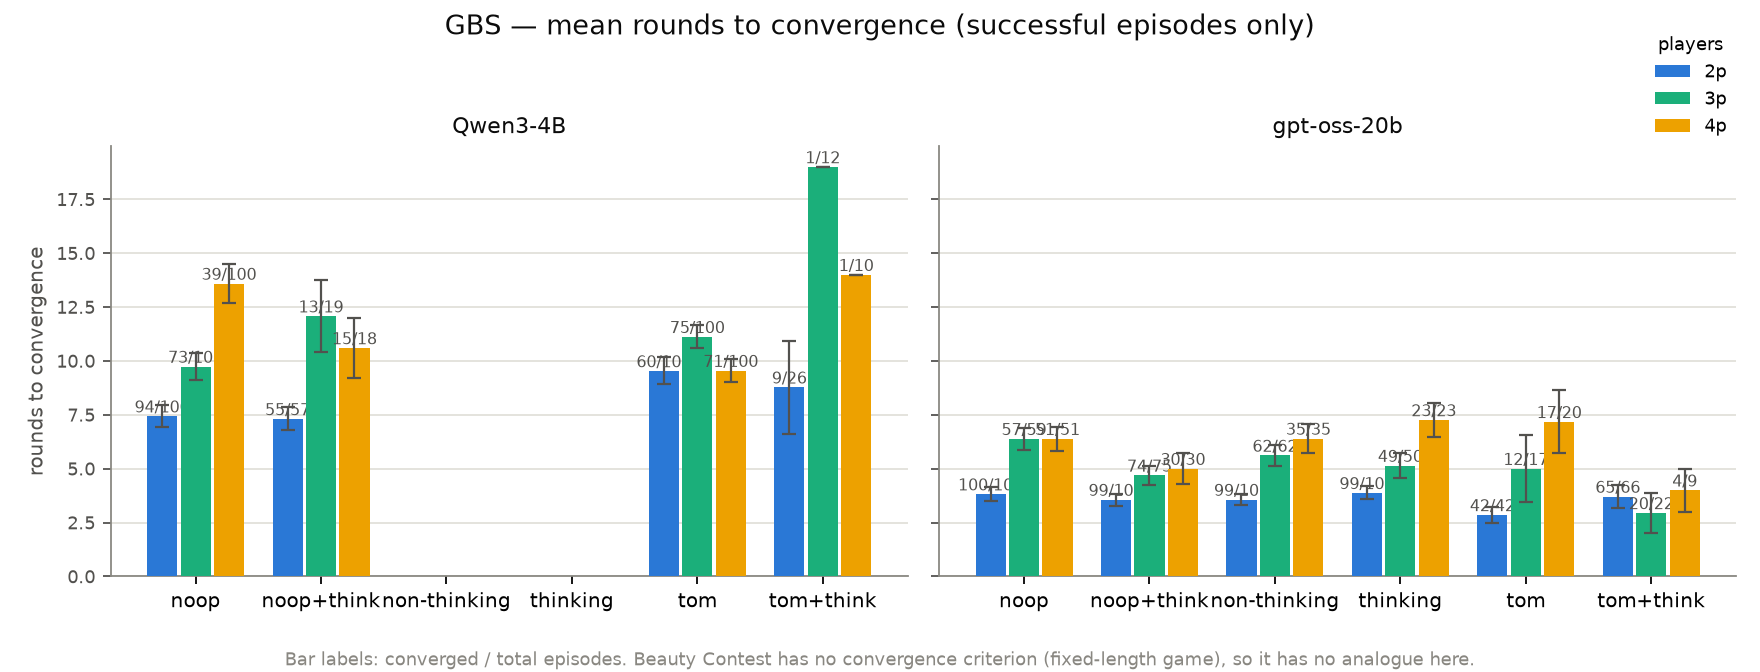
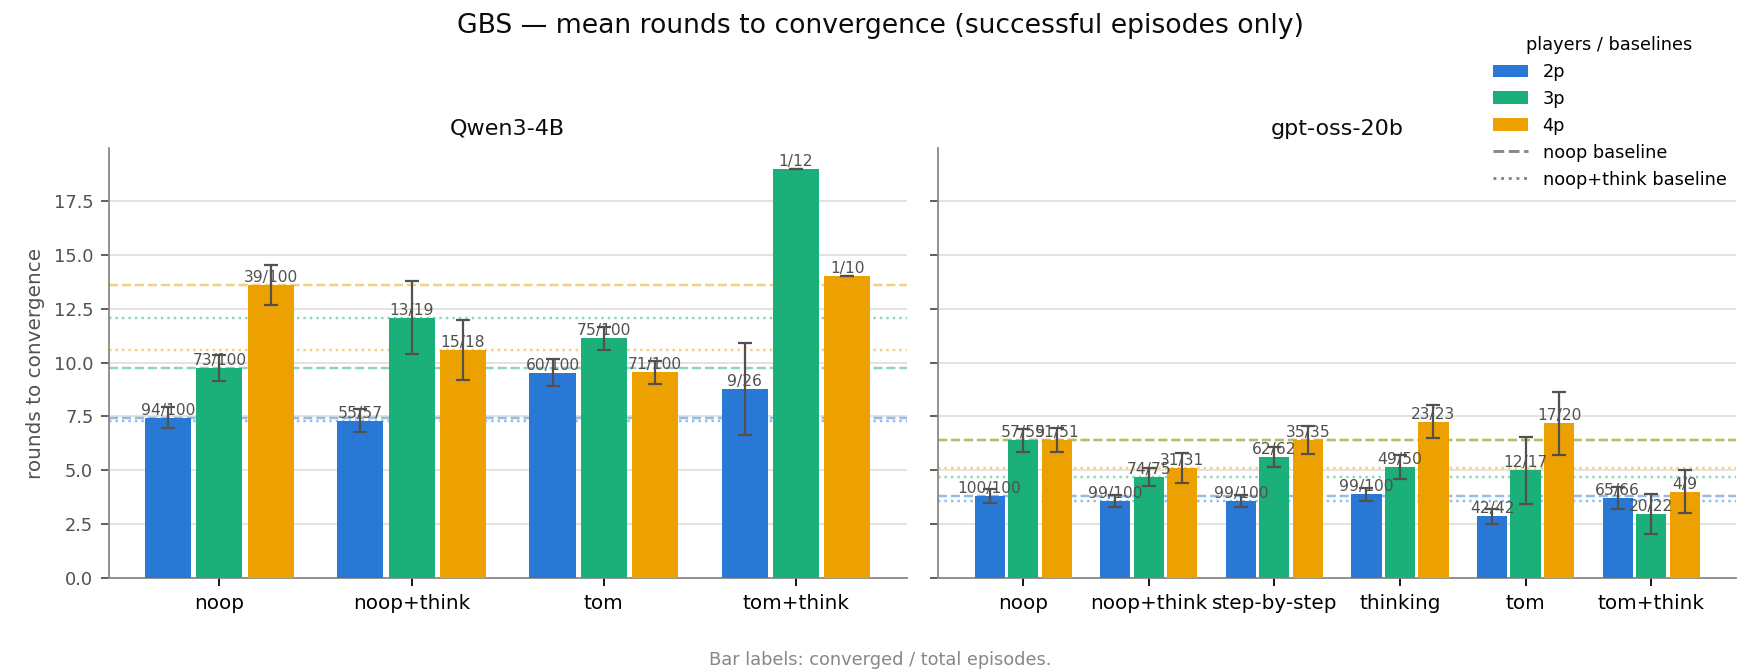
non-convergence

diff --git a/scripts/plot_reasoning_sweep.py b/scripts/plot_reasoning_sweep.py
@@ -269,6 +269,37 @@ def plot_response_length(rows: list[dict]):
     plt.close(fig)
 
 
+def plot_non_convergence(rows: list[dict]):
+    gbs_rows = [r for r in rows if r["game"] == "gbs"]
+    groups = group_rows(gbs_rows, ("model", "mode", "players"))
+
+    fig, axes = plt.subplots(1, len(MODEL_ORDER), figsize=(11, 4.2), sharey=True)
+    fig.suptitle("GBS — fraction of episodes without convergence",
+                 fontsize=12, color="#0b0b0b")
+
+    def value_fn(grp):
+        if not grp:
+            return None, 0.0, ""
+        non_conv = sum(1 for r in grp if not r.get("gbs_converged"))
+        return non_conv / len(grp), 0.0, f"{non_conv}/{len(grp)}"
+
+    for ax, model in zip(axes, MODEL_ORDER):
+        modes = MODEL_MODES[model]
+        bar_group(ax, groups, (model,), modes, value_fn, label_fmt=True)
+        add_reference_lines(ax, groups, (model,), modes, value_fn)
+        style_axis(ax, model,
+                   "fraction non-converged" if model == MODEL_ORDER[0] else "", modes)
+        ax.set_ylim(0, 1.1)
+
+    add_combined_legend(fig)
+    fig.text(0.5, 0.01, "Bar labels: non-converged / total episodes.",
+             ha="center", fontsize=8, color=MUTED)
+    fig.tight_layout(rect=(0, 0.05, 1, 0.94))
+    FIG_DIR.mkdir(parents=True, exist_ok=True)
+    fig.savefig(FIG_DIR / "non_convergence.png", dpi=160)
+    plt.close(fig)
+
+
 def plot_n_datapoints(rows: list[dict]):
     gbs_rows = [r for r in rows if r["game"] == "gbs"]
     groups = group_rows(gbs_rows, ("model", "mode", "players"))
@@ -310,6 +341,7 @@ def main():
     print(f"Wrote {len(rows)} episode rows -> {OUT_CSV}")
 
     plot_rounds_to_success(rows)
+    plot_non_convergence(rows)
     plot_response_length(rows)
     plot_n_datapoints(rows)
     print(f"Wrote figures -> {FIG_DIR}/")